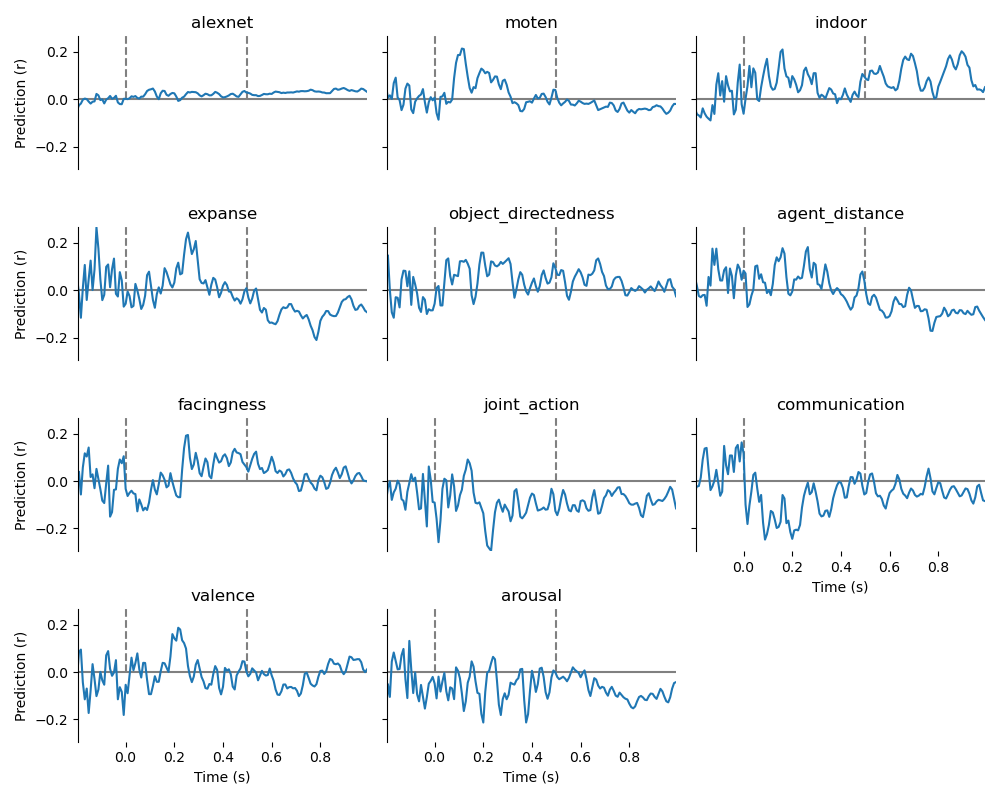
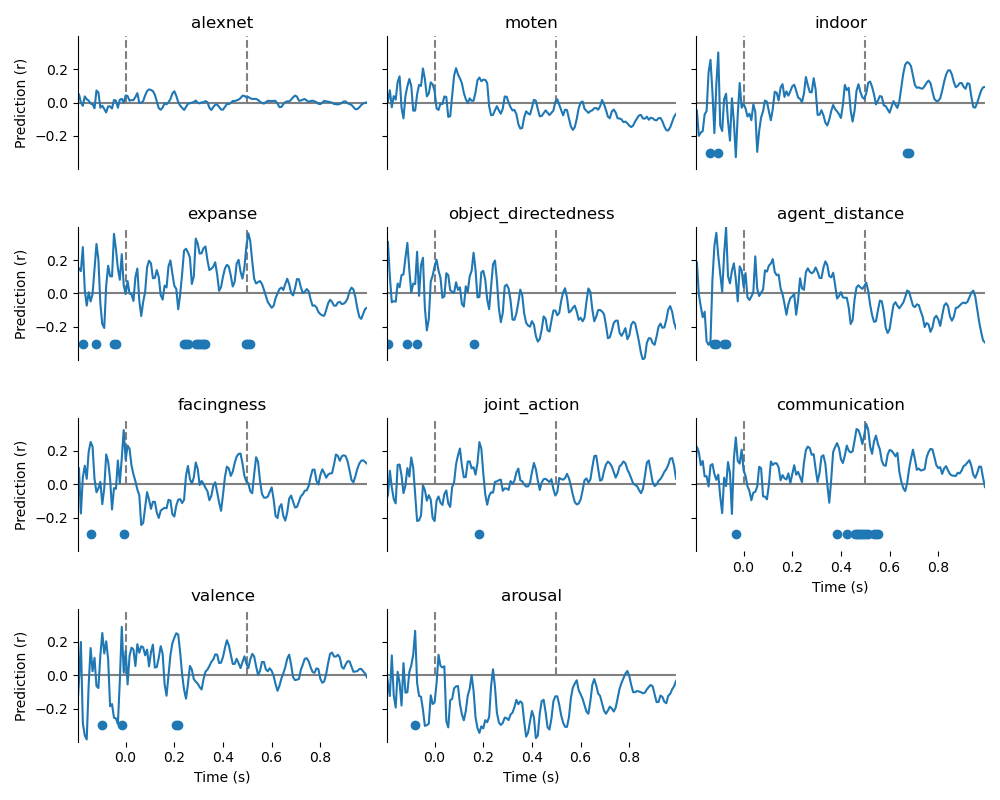
train-test split

diff --git a/src/decoding.py b/src/decoding.py
@@ -9,6 +9,8 @@ from sklearn.preprocessing import StandardScaler
 from sklearn.model_selection import KFold
 from sklearn.metrics import make_scorer
 import torch 
+from deepjuice.alignment import TorchRidgeGCV, get_scorer
+
 
 def correlation_scorer(y_true, y_pred):
     return stats.corr(y_true, y_pred)
@@ -49,27 +51,13 @@ def eeg_feature_decoding(neural_df, feature_df,
     return results
 
 
-def eeg_fmri_decoding(feature_map, benchmark, channels, device,
-                      verbose=True, n_splits=4):
+def eeg_fmri_decoding(feature_map, benchmark,
+                       channels, device,
+                      verbose=True):
     # initialize pipe and kfold splitter
-    cv = KFold(n_splits=n_splits, shuffle=True, random_state=0)
     alphas = [10.**power for power in np.arange(-5, 2)]
-    if 'cuda' in device.type:
-        from deepjuice.alignment import TorchRidgeGCV, get_scorer
-        score_func = get_scorer('pearsonr')
-        pipe = TorchRidgeGCV(alphas=alphas, alpha_per_target=True,
-                              device=device, scale_X=True,)
-    else:
-        score_func = make_scorer(correlation_scorer)
-        pipe = Pipeline([
-            ('scale', StandardScaler()),
-            ('rcv', RidgeCV(
-                fit_intercept=False,
-                alphas=alphas,
-                alpha_per_target=True,
-                scoring=score_func
-            ))
-        ])
+    pipe = TorchRidgeGCV(alphas=alphas, alpha_per_target=True,
+                            device=device, scale_X=True,)
 
     results = []
     time_groups = feature_map.groupby('time')
@@ -81,40 +69,24 @@ def eeg_fmri_decoding(feature_map, benchmark, channels, device,
 
     results = []
     for time, time_df in time_iterator:
-        X = time_df[channels].to_numpy()
-        y = benchmark.response_data.to_numpy().T
-        if 'cuda' in device.type:
-            X = torch.from_numpy(X).to(torch.float32).to(device)
-            y = torch.from_numpy(y).to(torch.float32).to(device)
-
-        y_pred = []
-        y_true = []
-
-        if verbose:
-            cv_iterator = tqdm(cv.split(X), desc='CV', total=n_splits)
-        else:
-            cv_iterator = cv.split(X)
-
-        for train_index, test_index in cv_iterator:
-            pipe.fit(X[train_index], y[train_index])
-            y_pred.append(pipe.predict(X[test_index]))
-            y_true.append(y[test_index])
+        X = {'train': time_df.loc[time_df.stimulus_set == 'train', channels].to_numpy(),
+             'test': time_df.loc[time_df.stimulus_set == 'test', channels].to_numpy()}
+        y = {'train': benchmark.response_data.loc[benchmark.stimulus_data['stimulus_set'] == 'train'].to_numpy().T,
+             'test': benchmark.response_data.loc[benchmark.stimulus_data['stimulus_set'] == 'test'].to_numpy().T}
         
-        if 'cuda' in device.type:
-            scores = score_func(torch.cat(y_pred), torch.cat(y_true))
-            scores = scores.cpu().detach().numpy() #send to CPU
-        else:
-            scores = stats.corr2d(np.concatenate(y_pred), np.concatenate(y_true))
-        print(f'scores shape {scores.shape}')
+        X = {key: torch.from_numpy(val).to(torch.float32).to(device) for key, val in X.items()}
+        y = {key: torch.from_numpy(val).to(torch.float32).to(device) for key, val in y.items()}
+
+        pipe.fit(X['train'], y['train'])
+        scores, null_scores = stats.perm_gpu(pipe.predict(X['test']), y['test'])
 
         for region in benchmark.metadata.roi_name.unique():
-            for subj_id in benchmark.metadata.subj_id.unique():
-                voxel_id = benchmark.metadata.loc[(benchmark.metadata.subj_id == subj_id) &
-                                                   (benchmark.metadata.roi_name == region), 'voxel_id'].to_numpy()
-                results.append({'time': time,
-                                'roi_name': region,
-                                'subj_id': subj_id,
-                                'score': np.mean(scores[voxel_id])})
+            voxel_id = benchmark.metadata.loc[(benchmark.metadata.roi_name == region), 'voxel_id'].to_numpy()
+            results.append({'time': time, 
+                            'roi_name': region,
+                            'score': torch.mean(scores[voxel_id]).cpu().detach().numpy(),
+                            'score_null': torch.mean(null_scores[:, voxel_id], dim=1).cpu().detach().numpy(),
+                            'method': 'ridge'})
     return pd.DataFrame(results)
 
 

diff --git a/scripts/reorganize_fmri.py b/scripts/reorganize_fmri.py
@@ -20,16 +20,20 @@ class ReorganziefMRI:
         self.streams = ['EVC']
         self.streams += [f'{level}_{stream}' for level in ['mid', 'high'] for stream in ['ventral', 'lateral', 'parietal']]
 
-    def generate_benchmark(self):
+    def generate_benchmark(self, sort_idx):
         all_rois = []
         all_betas = []
         for sub in tqdm(range(4)):
             sub = str(sub+1).zfill(2)
-            reliability_mask = np.load(f'{self.data_dir}/raw/reliability_mask/sub-{sub}_space-t1w_desc-test-fracridge_reliability-mask.npy').astype('bool')
+            reliability_mask = np.load(f'{self.data_dir}/raw/reliability_mask/sub-{sub}_space-T1w_desc-test-fracridge_reliability-mask.npy').astype('bool')
 
             # Beta files
-            betas_file = f'{self.data_dir}/raw/fmri_betas/sub-{sub}_space-t1w_desc-train-fracridge_data.nii.gz'
-            betas_arr = nib.load(betas_file).get_fdata()
+            betas_arr = []
+            for dataset in ['train', 'test']:
+                betas_file = f'{self.data_dir}/raw/fmri_betas/sub-{sub}_space-T1w_desc-{dataset}-fracridge_data.nii.gz'
+                betas_arr.append(nib.load(betas_file).get_fdata())
+            betas_arr = np.concatenate(betas_arr, axis=-1)
+            betas_arr = betas_arr[..., sort_idx] #resort by the stimulus_data frame
 
             # metadata
             beta_labels = betas_arr[:,:,:,0]
@@ -61,8 +65,8 @@ class ReorganziefMRI:
 
         # metadata
         metadata = pd.DataFrame(all_rois)
-        metadata.loc[metadata.stream_name == '1.0'] = 'none'
-        metadata.loc[metadata.roi_name == '1.0'] = 'none'
+        metadata.loc[metadata.stream_name == '1.0', 'stream_name'] = 'none'
+        metadata.loc[metadata.roi_name == '1.0', 'roi_name'] = 'none'
         # this makes a unique voxel_id for every voxel across all subjects
         metadata = metadata.reset_index().rename(columns={'index': 'voxel_id'})
         print(metadata.roi_name.unique())
@@ -77,8 +81,19 @@ class ReorganziefMRI:
         # Make the voxel ids unique so that there are no repeats across subjects
         return metadata, response_data
     
+    def load_stimulus_data(self):
+        stim_data = pd.read_csv(f'{self.data_dir}/interim/CaptionData/stimulus_data.csv')
+
+        # get the sorting indices to combine the train and test fMRI data
+        temp = stim_data[['video_name', 'stimulus_set']]
+        temp['sort_stimulus_set'] = temp['stimulus_set'] == 'test'
+        temp = temp.sort_values(by=['sort_stimulus_set', 'video_name']).reset_index(drop=True)
+        return stim_data, temp.sort_values(by='video_name').reset_index()['index'].to_numpy()
+
     def run(self):
-        metadata, response_data = self.generate_benchmark()
+        stimulus_data, sort_idx = self.load_stimulus_data()
+        metadata, response_data = self.generate_benchmark(sort_idx)
+        stimulus_data.to_csv(f'{self.data_dir}/interim/{self.process}/stimulus_data.csv', index=False)
         metadata.to_csv(f'{self.data_dir}/interim/{self.process}/metadata.csv', index=False)
         response_data.to_csv(f'{self.data_dir}/interim/{self.process}/response_data.csv.gz', index=False, compression='gzip')
 
@@ -86,7 +101,7 @@ class ReorganziefMRI:
 def main():
     parser = argparse.ArgumentParser()
     parser.add_argument('--data_dir', '-data', type=str,
-                         default='/Users/emcmaho7/Dropbox/projects/SI_EEG/SIEEG_analysis/data')
+                         default='/Users/emcmaho7/Dropbox/projects/SI_fmri/SIfMRI_modeling/data')
     args = parser.parse_args()
     ReorganziefMRI(args).run()
 

diff --git a/scripts/fmri_decoding.py b/scripts/fmri_decoding.py
@@ -37,23 +37,17 @@ class fMRIDecoding:
                      'PPA', 'pSTS', 'face-pSTS', 'aSTS']
         print(f'cuda is available {torch.cuda.is_available()}')
         self.device = torch.device("cuda" if torch.cuda.is_available() else "cpu")
-
+        self.channels = None
 
     def load_eeg(self):
         df_ = pd.read_csv(f'{self.data_dir}/interim/PreprocessData/{self.sid}_reg-gaze-{self.regress_gaze}.csv.gz')
-        all_cols = set(df_.columns.to_list())
-        other_cols = set(['trial', 'time', 'offset', 'offset_eyetrack_x', 'video_name',
-                    'gaze_x', 'gaze_y', 'pupil_size', 'target_x', 'target_y',
-                    'target_distance', 'offset_eyetrack_y', 'repetition', 'even', 'session'])
-        channels = list(all_cols - other_cols)
-        return df_, channels
+        self.channels = [col for col in df_.columns if 'channel' in col]
+        return df_
     
     def load_fmri(self):
         metadata_ = pd.read_csv(f'{self.data_dir}/interim/ReorganziefMRI/metadata.csv')
         response_data_ = pd.read_csv(f'{self.data_dir}/interim/ReorganziefMRI/response_data.csv.gz')
-        stimulus_data_ = pd.read_csv(f'{self.data_dir}/raw/annotations/annotations.csv')
-        stimulus_data_ = stimulus_data_.merge(pd.read_csv(f'{self.data_dir}/raw/annotations/train.csv'), on='video_name').reset_index()
-        stimulus_data_.sort_values(by='video_name', inplace=True)
+        stimulus_data_ = pd.read_csv(f'{self.data_dir}/interim/ReorganziefMRI/stimulus_data.csv.gz')
         return Benchmark(metadata_, stimulus_data_, response_data_)
     
     def run(self):
@@ -61,12 +55,13 @@ class fMRIDecoding:
             results = pd.read_csv(self.out_file)
         else:
             print('loading data...')
-            df, channels = self.load_eeg()
+            df = self.load_eeg()
             benchmark = self.load_fmri()
-            df_avg = preprocess_data(df, channels, benchmark.stimulus_data)
+            df_avg = preprocess_data(df, self.channels, benchmark.stimulus_data)
             
             print('beginning decoding...')
-            results = decoding.eeg_fmri_decoding(df_avg, benchmark, channels, self.device)
+            results = decoding.eeg_fmri_decoding(df_avg, benchmark,
+                                                  self.channels, self.device)
             results = results.groupby(['time', 'roi_name']).mean().reset_index()
             results.to_csv(self.out_file, index=False)
 

diff --git a/src/mri.py b/src/mri.py
@@ -1,5 +1,6 @@
 import nibabel as nib
 import numpy as np
+import pandas as pd
 
 
 def gen_mask(files, rel_mask=None):
@@ -19,9 +20,24 @@ def gen_mask(files, rel_mask=None):
 
 class Benchmark:
     def __init__(self, metadata, stimulus_data, response_data):
-        self.metadata = metadata
-        self.stimulus_data = stimulus_data
-        self.response_data = response_data
+        if type(metadata) is str:
+            self.metadata = pd.read_csv(metadata)
+        else:
+            self.metadata = metadata
+
+        if type(stimulus_data) is str:
+            self.stimulus_data = pd.read_csv(stimulus_data)
+        else:
+            self.stimulus_data = stimulus_data
+
+        if type(response_data) is str:
+            self.response_data = pd.read_csv(response_data)
+        else:
+            self.response_data = response_data
+
+    def add_image_path(self, data_dir):
+        self.stimulus_data['image_path'] = data_dir + self.stimulus_data.video_name.str.replace('mp4', 'png')
+        print(self.stimulus_data.head())
 
     def filter_rois(self, rois='none'):
         if rois != 'none':
@@ -48,3 +64,12 @@ class Benchmark:
         voxel_id = self.metadata['voxel_id'].to_numpy()
         self.response_data = self.response_data.iloc[voxel_id]
 
+    def filter_stimulus(self, stimulus_set='train', inplace=False):
+        if inplace:
+            self.stimulus_data = self.stimulus_data[self.stimulus_data['stimulus_set'] == stimulus_set].reset_index()
+            stim_idx = list(self.stimulus_data['index'].to_numpy().astype('str'))
+            self.response_data = self.response_data[stim_idx]
+        else:
+            stimulus_data = self.stimulus_data[self.stimulus_data['stimulus_set'] == stimulus_set].reset_index()
+            stim_idx = list(self.stimulus_data['index'].to_numpy().astype('str'))
+            return stimulus_data, self.response_data[stim_idx]

diff --git a/scripts/feature_decoding.py b/scripts/feature_decoding.py
@@ -75,6 +75,7 @@ class FeatureDecoding:
         return out
     
     def run(self):
+        results = None
         if os.path.exists(self.out_file) and not self.overwrite: 
             results = pd.read_csv(self.out_file)
             cat_type = pd.CategoricalDtype(categories=self.features, ordered=True)
@@ -84,11 +85,16 @@ class FeatureDecoding:
             feature_df, predicting_features = self.load_features()
             df_avg = self.preprocess_data(df)
 
-            results = decoding.eeg_feature_decoding(df_avg, feature_df,
-                                                    predicting_features, self.channels)
-            results = self.average_results(results)
-            results.to_csv(self.out_file, index=False)
-        plotting.plot_eeg_feature_decoding(results, self.features, self.out_figure)
+            if 'train' in df_avg['stimulus_set'].unique():
+                results = decoding.eeg_feature_decoding(df_avg, feature_df,
+                                                        predicting_features, self.channels)
+                results = self.average_results(results)
+                results.to_csv(self.out_file, index=False)
+            else:
+                print('encoding not performed, no training set')
+
+        if results is not None: 
+            plotting.plot_eeg_feature_decoding(results, self.features, self.out_figure)
 
 
 def main():

diff --git a/src/stats.py b/src/stats.py
@@ -5,7 +5,7 @@ import numpy as np
 from tqdm import tqdm
 from scipy.spatial.distance import squareform
 from statsmodels.stats.multitest import multipletests
-
+import torch
 
 def filter_r(rs, ps, p_crit=0.05, correct=True, threshold=True):
     rs_out = rs.copy()
@@ -147,3 +147,30 @@ def perm_unique_variance(a, b, c, n_perm=int(5e3), H0='greater'):
     p = calculate_p(r2_null, r2, n_perm, H0)
     return r2, p, r2_null
 
+
+def corr2d_gpu(x, y):
+    x_m = x - torch.nanmean(x, dim=0)
+    y_m = y - torch.nanmean(y, dim=0)
+
+    numer = torch.nansum((x_m * y_m), dim=0)
+    denom = torch.sqrt(torch.nansum((x_m * x_m), dim=0) * torch.nansum((y_m * y_m), dim=0))
+    denom[denom == 0] = float('nan')
+    return numer / denom
+
+
+def perm_gpu(a, b, n_perm=int(5e3), verbose=False):
+    g = torch.Generator()
+    r = corr2d_gpu(a, b)
+
+    if verbose:
+        iterator = tqdm(range(n_perm), total=n_perm, desc='Permutation testing')
+    else:
+        iterator = range(n_perm)
+
+    r_null = torch.zeros((n_perm, a.shape[-1]))
+    for i in iterator:
+        g.manual_seed(i)
+        inds = torch.randperm(a.shape[0], generator=g)
+        a_shuffle = a[inds]
+        r_null[i, :] = corr2d_gpu(a_shuffle, b)
+    return r, r_null

diff --git a/scripts/preprocess_data.py b/scripts/preprocess_data.py
@@ -27,6 +27,12 @@ class PreprocessData:
         print('loading eeg...')
         df = pd.read_csv(f'{self.data_dir}/interim/SIdyads_EEG_pilot/{self.sid}/{self.sid}_trials.csv.gz')
         self.channels = [col for col in df.columns if 'channel' in col]
+        if len(self.channels) == 0:
+            channel_rename = {s: 'channel_'+s for s in df.columns if 2 <= len(s) <= 4 and s[0].isupper()}
+            print('original columns: ', df.columns)
+            df.rename(columns=channel_rename, inplace=True)
+            print('revised columns: ', df.columns)
+            self.channels = [col for col in df.columns if 'channel' in col]
         df['offset_eyetrack'] = (df.offset / self.eeg_fps)
         return df 
 
@@ -99,7 +105,7 @@ class PreprocessData:
 
 def main():
     parser = argparse.ArgumentParser()
-    parser.add_argument('--sid', type=int, default=14)
+    parser.add_argument('--sid', type=int, default=2)
     parser.add_argument('--resample_rate', type=str, default='4ms')
     parser.add_argument('--start_time', type=float, default=-0.2)
     parser.add_argument('--end_time', type=float, default=1)

diff --git a/scripts/eeg_preprocessing/preprocess_raw_eeg.m b/scripts/eeg_preprocessing/preprocess_raw_eeg.m
@@ -4,7 +4,7 @@ addpath progressbar/
 
 input_path = '../../data/raw/SIdyads_EEG_pilot/';
 out_path = '../../data/interim/SIdyads_EEG_pilot/';
-subj_file = 'subj014';
+subj_file = 'subj001';
 hdrfile = [input_path, subj_file, '/', [subj_file, '.vhdr']];
 eegfile = [input_path, subj_file, '/', [subj_file, '.eeg']];
 
